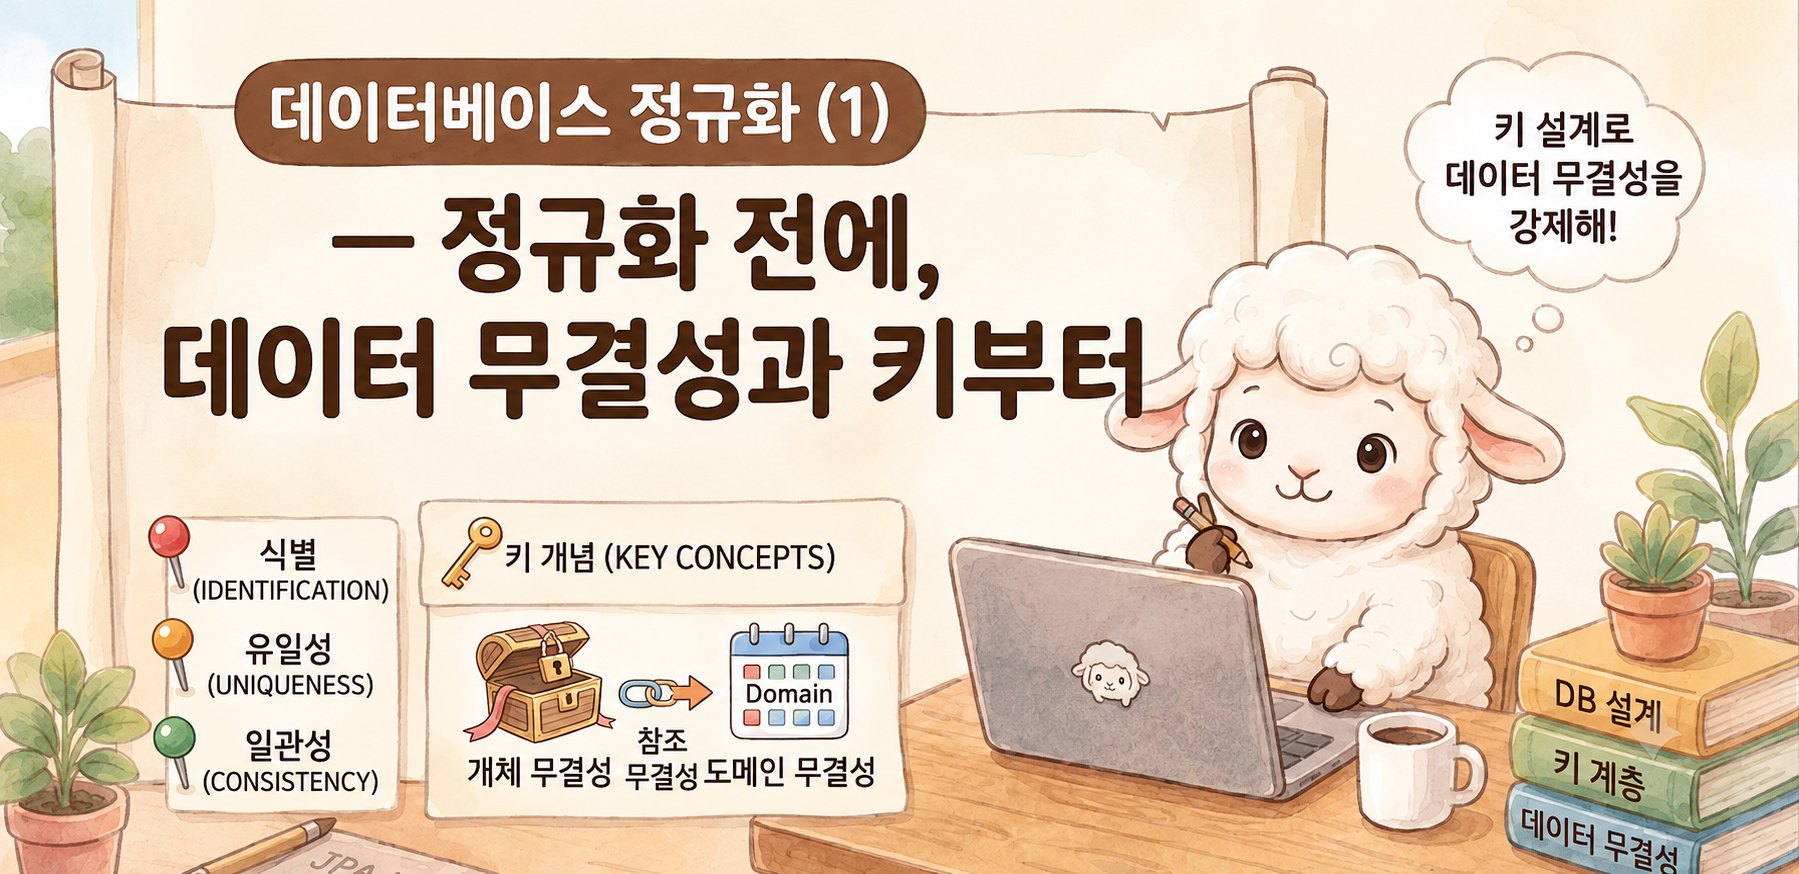
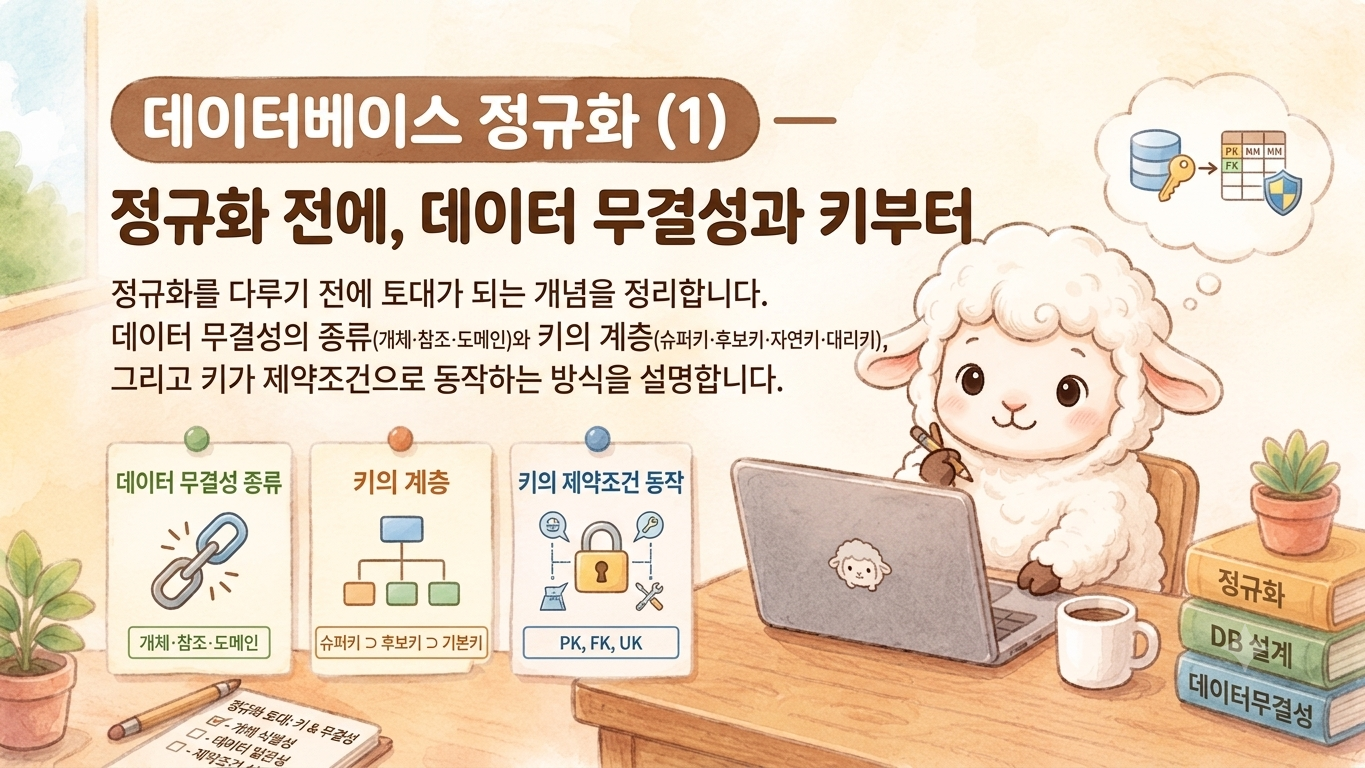
히어로 인포그래픽(1~6편) + 스프링 글 초안 + 파비콘·SEO·OG 보강
- 1~6편 마스코트 히어로 인포그래픽 적용, 히어로 비율 16:9, 각 글 히어로→OG 연결
- 스프링 컨텍스트 캐시 OOM 글 초안(draft) + Before/After 도식 SVG
- 양 파비콘 PNG(16/32/48/180)+apple-touch-icon, 네이버 사이트 인증 메타
- 5·6편 pubDate 갱신, 3편 문구 정리(흥미로운 점은 등 제거)
- docs/hero-image-prompt.md 개선(16:9·텍스트 최소화 규칙)

diff --git a/src/content/blog/spring-test-oom-context-cache.md b/src/content/blog/spring-test-oom-context-cache.md
@@ -1,0 +1,174 @@
+---
+title: 'JPA 테스트가 CI에서 OOM으로 죽은 이유 — Spring 컨텍스트 캐시 키와 H2'
+description: '@DataJpaTest마다 서로 다른 H2 DB 이름을 주면 Spring 컨텍스트 캐시가 무력화되어 CI에서 OutOfMemoryError가 납니다. 원인인 컨텍스트 캐시 키(MergedContextConfiguration)의 동작과 해결 방법을 공식 문서·소스를 근거로 정리합니다.'
+pubDate: 'Jun 24 2026'
+heroImage: '../../assets/blog-placeholder-2.jpg'
+tags: ['Spring', 'JPA', '테스트', 'H2', 'OOM']
+draft: false
+---
+
+리포지토리 테스트가 수백 개인 프로젝트에서, 어느 날부터 CI의 `./gradlew test`가 `OutOfMemoryError`로 실패하기 시작했습니다. 실패하는 테스트는 실행할 때마다 달라져, 특정 테스트의 버그처럼 보이지도 않았습니다. 원인을 따라가 보면 `@DataJpaTest`와 H2 인메모리 DB, 그리고 **Spring 테스트의 컨텍스트 캐시 키**가 맞물려 있었습니다. 이 글은 그 과정을 공식 문서와 소스 코드를 근거로 정리합니다.
+
+> 환경은 Spring Boot 2.7 / Spring Framework 5.3 기준입니다. 컨텍스트 캐시 메커니즘 자체는 이후 버전에서도 같습니다.
+
+## 원인 — 테스트마다 다른 H2 DB 이름
+
+먼저 OOM이 난 스택을 봤습니다. 터지는 위치가 테스트의 쿼리나 데이터가 아니라, **새 Spring 컨텍스트를 빌드하며 classpath를 스캔하는 도중**이었습니다.
+
+```text
+java.lang.OutOfMemoryError
+  at DefaultCacheAwareContextLoaderDelegate ...
+  at ClassPathScanningCandidateComponentProvider ...
+```
+
+스택에 찍힌 두 클래스가 핵심 단서입니다.
+
+- `DefaultCacheAwareContextLoaderDelegate` — Spring 테스트가 **캐시를 거쳐 ApplicationContext를 로드**하는 부분입니다.
+- `ClassPathScanningCandidateComponentProvider` — 컨텍스트를 만들 때 **지정한 패키지의 classpath를 훑어 빈으로 등록할 후보 클래스를 찾아내는** 스캐너입니다. 공식 Javadoc은 이 클래스를 "기준 패키지로부터 후보 컴포넌트를 제공하며, 인덱스가 있으면 인덱스를 쓰고 없으면 classpath를 스캔한다"고 설명합니다. `@ComponentScan`이 "어디를 스캔할지"를 정하면, 실제 스캔을 수행하는 일꾼이 이 클래스입니다.
+
+정리하면 OOM은 테스트의 쿼리·검증 코드가 아니라 **새 컨텍스트를 만들며 classpath를 스캔하던 도중**에 났습니다. 곧 테스트가 컨텍스트를 너무 많이 만들고 있다는 신호였고, 테스트 설정에서 원인이 드러났습니다. 리포지토리 테스트들이 각각 다음과 같은 형태였습니다.
+
+```kotlin
+@DataJpaTest
+@TestPropertySource(properties = [
+    "spring.datasource.url=jdbc:h2:mem:orderTestDb;...",   // 테스트마다 고유한 이름
+    "spring.jpa.hibernate.ddl-auto=create-drop",
+])
+class OrderRepositoryTest
+```
+
+테스트마다 `jdbc:h2:mem:` 뒤의 DB 이름을 다르게 줬습니다. 의도는 "테스트 간 DB를 격리하자"였습니다. 그런데 이 인라인 property가 **Spring 컨텍스트 캐시의 키를 테스트마다 다르게 만들어**, 컨텍스트가 전혀 재사용되지 않았습니다.
+
+## Spring 컨텍스트 캐시 키란
+
+Spring 테스트는 무거운 `ApplicationContext`를 테스트마다 새로 만들지 않으려고 캐시에 담아 재사용합니다. 이때 키는 단순한 문자열이 아니라 **`MergedContextConfiguration` 객체**입니다. 테스트 클래스의 모든 컨텍스트 설정을 병합한 것으로, 두 테스트의 이 객체가 `equals()`로 같으면 컨텍스트를 공유하고, 하나라도 다르면 별도 컨텍스트를 만듭니다.
+
+키에 포함되는 주요 구성요소는 다음과 같습니다.
+
+| 구성요소 | 출처 |
+|---|---|
+| 설정 클래스/XML, ContextLoader | `@ContextConfiguration`, `@SpringBootConfiguration` |
+| 활성 프로파일 | `@ActiveProfiles` |
+| `@TestPropertySource` 파일 경로 | `locations` |
+| **`@TestPropertySource` 인라인 property** | `properties` ← 이번 원인 |
+| ContextCustomizer 집합 | `@MockBean`, `@DynamicPropertySource` 등 |
+
+인라인 property가 **한 글자만 달라도 다른 키 = 다른 컨텍스트**입니다. 이는 추측이 아니라 소스에 그대로 드러나 있습니다. `MergedContextConfiguration`의 `equals()`와 `hashCode()`가 인라인 property 배열을 직접 비교하고 해시합니다.
+
+```java
+// MergedContextConfiguration.equals()
+if (!Arrays.equals(this.propertySourceProperties, otherConfig.propertySourceProperties)) {
+    return false;   // 인라인 property가 다르면 다른 키
+}
+
+// MergedContextConfiguration.hashCode()
+result = 31 * result + Arrays.hashCode(this.propertySourceProperties);
+```
+
+`@TestPropertySource(properties = ["spring.datasource.url=...고유..."])`의 배열이 여기 들어가므로, 테스트마다 H2 이름이 다르면 키가 전부 달라집니다.
+
+## 왜 OOM이 나는가
+
+원인을 잡은 뒤, 정말 그래서 OOM이 나는지 재현하며 GC 로그를 찍어 확인했습니다. 컨텍스트 캐시 구현은 `org.springframework.test.context.cache.ContextCache`이고, 세 가지 성질이 겹쳐 OOM을 만듭니다.
+
+- **재사용 0%**: 키가 테스트마다 다르므로 조회는 매번 캐시 미스가 되고, 그때마다 새 컨텍스트를 빌드합니다.
+- **강한 참조로 동시 상주**: 캐시는 기본 `maxSize=32`까지 컨텍스트를 강한 참조로 보관합니다. JPA 컨텍스트 하나에는 전체 엔티티 메타모델, H2, 커넥션 풀이 들어 있어 무겁습니다. 이런 컨텍스트가 32개까지 동시에 살아 있게 됩니다.
+- **단일 fork CI**: 한 JVM에서 수백 개의 테스트가 도는 동안 컨텍스트가 한도까지 누적됩니다.
+
+이 양상은 GC 로그에 그대로 드러났습니다. 아래는 실제 로그에서 핵심 GC 라인만 발췌한 것입니다. 초반에는 Young GC가 힙을 회수하지만 회수 후 사용량이 계속 올라가고, 후반에는 Full GC를 돌려도 사용량이 거의 그대로입니다.
+
+```text
+[초반] 153M->38M(3072M)  …  421M->206M(3072M)   ← 회수 후가 계속 상승
+[후반] Pause Full 3068M->3068M(3072M)            ← 풀 GC가 돌아도 안 내려감
+```
+
+> **Young GC와 Full GC**
+>
+> JVM 힙은 객체를 Young(젊은) 영역과 Old(늙은) 영역으로 나눠 관리합니다. **Young GC**는 Young 영역만 청소해 빠르고 자주 일어나고, **Full GC**는 Old를 포함한 힙 전체를 청소해 느립니다. 위 로그의 `Pause Young`이 Young GC, `Pause Full`이 Full GC입니다.
+
+Full GC를 돌려도 사용량이 내려가지 않는다는 것은, 힙에 있는 객체가 전부 살아 있어 회수할 수 없다는 뜻입니다. 메모리 누수가 아니라 **강한 참조로 잡힌 컨텍스트들이 힙을 가득 채운** 상태입니다. 그 상태에서 다음 컨텍스트를 빌드하며 classpath를 스캔하는 순간 `OutOfMemoryError`가 납니다.
+
+## 왜 느리기도 했나 — 속도
+
+테스트마다 고유한 H2 이름은 단순한 캐시 미스가 아니라, **그때마다 컨텍스트·스키마를 통째로 새로 만든다**는 뜻입니다. 테스트 클래스 하나가 추가될 때마다 다음이 반복됩니다.
+
+- classpath 스캔과 빈 생성
+- 전체 엔티티에 대한 Hibernate 메타모델 빌드
+- 빈 H2에 전체 테이블을 만드는 스키마 DDL
+
+수백 번 반복되던 이 작업이, 컨텍스트를 공유하면 몇 번으로 줄어듭니다. 그래서 캐시 키를 통일하면 OOM이 사라질 뿐 아니라 테스트가 크게 빨라집니다.
+
+## H2 인메모리의 추가 함정
+
+여기서 한 가지 더 주의할 점이 있습니다. **H2 인메모리 DB는 같은 JVM 안에서 이름으로 식별**됩니다. `jdbc:h2:mem:sharedDb`는 이름이 같으면 물리적으로 같은 DB입니다.
+
+그래서 서로 다른 컨텍스트가 같은 DB 이름을 공유하면, 각자 `create-drop`으로 스키마를 만들고 지우다가 한 컨텍스트가 종료될 때 다른 컨텍스트의 테이블까지 drop해 충돌할 수 있습니다. 정리하면 규칙은 이렇습니다.
+
+- **같은 컨텍스트를 공유하는 테스트** → 같은 DB 이름 (캐시 재사용)
+- **컨텍스트 설정이 다른 테스트** → 다른 DB 이름 (스키마 충돌 방지)
+
+즉 "단일 컨텍스트 = 단일 DB 이름"입니다.
+
+## 해결 — 캐시 키를 같게 만든다
+
+핵심은 간단합니다. `@DataJpaTest`는 메서드마다 트랜잭션을 롤백하므로 **테스트별 고유 DB가 애초에 필요하지 않습니다.** 격리는 롤백이 이미 보장합니다. 따라서 고유 H2 이름을 없애고 설정을 하나로 고정하면 됩니다.
+
+이를 위해 공통 설정을 묶은 **합성(메타) 애너테이션**을 만듭니다. Spring TestContext는 `@DataJpaTest`나 `@TestPropertySource`가 메타 애너테이션으로 올라가 있어도 병합해서 인식합니다.
+
+```kotlin
+@Target(AnnotationTarget.CLASS)
+@Retention(AnnotationRetention.RUNTIME)
+@DataJpaTest
+@TestPropertySource(properties = [
+    "spring.datasource.url=jdbc:h2:mem:sharedRepoDb;DB_CLOSE_DELAY=-1",  // 고정된 단일 이름
+    "spring.jpa.hibernate.ddl-auto=create-drop",
+])
+annotation class RepositoryJpaTest
+```
+
+이제 각 테스트는 고유 설정 대신 이 애너테이션 하나만 붙입니다.
+
+```kotlin
+@RepositoryJpaTest
+class OrderRepositoryTest
+
+@RepositoryJpaTest
+class MemberRepositoryTest
+```
+
+두 테스트의 property 블록이 **글자 단위로 동일**하므로 `MergedContextConfiguration`이 같아지고, 컨텍스트 하나를 공유합니다. 수백 개로 쪼개졌던 컨텍스트가 설정 그룹 수만큼으로 줄어듭니다.
+
+![테스트마다 다른 H2 이름을 주면 캐시 키가 갈려 컨텍스트가 여러 개 쌓여 힙이 가득 차 OOM이 나는 반면, 공통 애너테이션으로 단일 H2 이름을 쓰면 키가 같아져 컨텍스트 하나를 재사용함을 비교한 도식](../../assets/spring-test-context-cache.svg)
+
+한 가지 주의할 점은, **컨텍스트 설정을 바꾸는 요소가 있으면 그룹을 나눠야** 한다는 것입니다. 예를 들어 `@EnableJpaAuditing` 적용 여부, `@MockBean`, `@ActiveProfiles`, `@Import` 등은 키를 바꾸므로, 그런 테스트는 같은 그룹에 넣을 수 없습니다. 설정 그룹별로 애너테이션을 따로 두고, 각 그룹에 다른 H2 이름을 주면 됩니다.
+
+### 즉시 완화책
+
+근본 수정 전에 CI를 빠르게 안정화해야 한다면, 동시 상주 컨텍스트 수를 제한하는 방법이 있습니다.
+
+```text
+-Dspring.test.context.cache.maxSize=8
+```
+
+기본 32를 줄이면 한 번에 살아 있는 컨텍스트가 적어져 힙 압력이 내려갑니다. 동작은 그대로지만, 그만큼 컨텍스트 재생성이 늘어 약간 느려집니다. 근본 원인(키가 쪼개진 것)을 고치는 것은 아니므로 임시방편입니다.
+
+## 정리
+
+원인을 한 줄로 이으면 이렇습니다.
+
+> 테스트마다 다른 H2 url → 캐시 키 분열 → 컨텍스트 재사용 0% → 무거운 컨텍스트 누적 → 힙 고갈 → (다음 컨텍스트의) classpath 스캔 중 OOM
+
+- CI 테스트 OOM이 **컨텍스트 빌드 단계(classpath 스캔)** 에서 났다면, 테스트 로직이 아니라 **컨텍스트가 너무 많이 만들어지는 것**을 의심한다
+- Spring 테스트의 컨텍스트 캐시 키는 `MergedContextConfiguration`이고, 여기에 **`@TestPropertySource` 인라인 property가 포함**된다
+- `@DataJpaTest`마다 다른 H2 DB 이름을 주면 키가 전부 달라져 **컨텍스트 재사용이 0%가 되고**, 무거운 컨텍스트가 캐시에 쌓여 OOM과 속도 저하를 함께 부른다
+- `@DataJpaTest`는 롤백으로 격리되므로 고유 DB가 불필요하다. **공통 메타 애너테이션으로 설정을 고정**해 키를 통일하면 컨텍스트를 공유한다
+- H2 인메모리는 이름으로 식별되므로 **"단일 컨텍스트 = 단일 DB 이름"** 규칙을 지킨다
+
+## 참고 문헌
+
+- [Spring Framework Reference — Context Caching](https://docs.spring.io/spring-framework/docs/5.3.x/reference/html/testing.html#testcontext-ctx-management-caching) — 캐시 키 구성 파라미터 목록(`propertySourceProperties` 포함).
+- [Spring Framework Reference — @TestPropertySource](https://docs.spring.io/spring-framework/docs/5.3.x/reference/html/testing.html#testcontext-ctx-management-property-sources) — 인라인 property 주입.
+- [Javadoc — `MergedContextConfiguration`](https://docs.spring.io/spring-framework/docs/5.3.31/javadoc-api/org/springframework/test/context/MergedContextConfiguration.html) — 캐시 키 객체. `equals()`/`hashCode()`가 `propertySourceProperties`를 비교.
+- [Javadoc — `ContextCache`](https://docs.spring.io/spring-framework/docs/5.3.31/javadoc-api/org/springframework/test/context/cache/ContextCache.html) — 기본 `maxSize` 32, LRU 제거.
+- [Javadoc — `ClassPathScanningCandidateComponentProvider`](https://docs.spring.io/spring-framework/docs/5.3.31/javadoc-api/org/springframework/context/annotation/ClassPathScanningCandidateComponentProvider.html) — "기준 패키지로부터 후보 컴포넌트를 제공하며, 인덱스가 없으면 classpath를 스캔한다." OOM 스택에 나타난 스캐너.
+- [Spring Framework Reference — Classpath Scanning and Managed Components](https://docs.spring.io/spring-framework/docs/5.3.x/reference/html/core.html#beans-classpath-scanning) — `@ComponentScan`이 classpath를 스캔해 빈 정의를 자동 등록하는 방식.

diff --git a/docs/hero-image-prompt.md b/docs/hero-image-prompt.md
@@ -1,79 +1,83 @@
 # 히어로/OG 이미지 생성 프롬프트 (그나저나 메모)
 
-블로그 히어로 이미지를 **일관된 수채화 마스코트 톤**으로, **OG 표준 비율 1.91:1 (1200×630)** 에 맞춰 생성하기 위한 프롬프트 템플릿.
+블로그 히어로 이미지를 **일관된 수채화 양 마스코트 톤**으로, **16:9 (예: 1365×768 또는 1200×675)** 에 맞춰 생성하기 위한 프롬프트.
 
-- 이미지 생성 모델(Gemini / ChatGPT 등)에 붙여 넣고, `«...»` 부분만 글마다 교체한다.
-- 히어로는 `1200×630`(또는 2배 `2400×1260`)로 만들면 히어로·OG 양쪽에 크롭 없이 들어간다.
+- 히어로 레이아웃은 16:9(1200×675)로 렌더되며, OG 이미지로도 그대로 쓰인다. 16:9면 크롭 없이 들어간다.
+- **일관성의 핵심은 "기존 히어로 이미지 1~2장을 참고 이미지로 함께 첨부"** 하는 것. 그림체·색감·폰트·구도가 자동으로 맞춰진다.
+- 이미지 생성 모델(Gemini / ChatGPT 등)에 프롬프트 + 참고 이미지를 함께 주고, `«...»`만 글마다 교체한다.
 - **금지어**: 책등·문구에 `마스터`, `정복`, `완벽`, `전문가` 등 도달·결과 보장 표현 금지(게시 콘텐츠 과장 금지 규칙).
 
 ---
 
-## 공통 프롬프트 (스타일·레이아웃 고정)
+## 공통 프롬프트 (복붙 + 참고 이미지 첨부)
 
 ```
-A warm, soft watercolor illustration, children's-book style, cozy and cute.
-ASPECT RATIO: wide landscape banner, 1.91:1 (1200 x 630 px). Keep all text and the
-sheep within a safe margin so nothing is cut at the edges.
+첨부한 [참고 이미지들]과 완전히 같은 그림체·색감·레이아웃·폰트(크기 포함)·양 마스코트·구도로
+새 히어로 이미지를 만들어 주세요. 비율 16:9.
 
-SCENE (keep identical every time for consistency):
-- A fluffy white cartoon sheep sitting at a light wooden desk on the RIGHT, holding a
-  pencil, gentle smile, a gray laptop with a tiny sheep sticker, a coffee mug, and a
-  stack of books with Korean spine labels on the far right.
-- LEFT/back: a bright window with greenery, potted plants, a folded "JPA" newspaper.
-- Cream / warm-beige background. Soft brown outlines. Rounded bold Korean lettering.
-- TOP: a parchment scroll banner. Brown rounded tag with the series label, big bold
-  title below, small leaf sprigs beside the subtitle.
-- A thought/speech bubble near the sheep's head (top-right).
+단, 글자를 확 줄이고 더 크고 시원하게 가주세요. 규칙:
+- 제목: 한 줄 (시리즈 태그 + 제목), 기존과 같은 크기.
+- 부제: 딱 한 줄, 짧게. (3줄 설명 금지)
+- 가운데 개념 패널: 정확히 3개. 각 패널은 "큰 아이콘 + 2~4단어 라벨"만.
+  → 패널 안에 표·문장·여러 줄 설명을 넣지 마세요.
+- 말풍선: 작은 아이콘이나 간단한 미니 도식 하나만, 글자 최소.
+- 책등: 2~3개, 각 1~2단어.
+- 쪽지/메모의 불릿 목록 같은 잡다한 텍스트는 빼주세요.
+- 여백을 넉넉히. 작은 글씨로 빽빽하게 채우지 마세요.
 
-TEXT TO RENDER (Korean, exact):
-- Series tag:  데이터베이스 정규화 (N)
-- Title:       «제목»
-- Subtitle:    «부제»
-- Panels (3 cards on the parchment):  «패널1» / «패널2» / «패널3»
-- Bottom "분해" section:  Before «...»  →  After «...»  + green check "중복 감소"
-- Speech bubble:  «말풍선»
-- Book spines (right): «책등1» / «책등2» / «책등3»
-
-Clean, uncluttered, friendly. No watermark.
+[이번 글 내용 — 아래만 반영하고 본문 세부는 넣지 마세요]
+- 시리즈 태그: «데이터베이스 정규화 (N)»
+- 제목: «...»
+- 부제(한 줄): «...»
+- 개념 패널 3개(아이콘 + 짧은 라벨): «라벨1» / «라벨2» / «라벨3»
+- 말풍선(한 단어 또는 아이콘): «...»
+- 책등: «...» / «...»
 ```
 
-> 모델이 1.91:1을 정확히 안 지키면, 나온 그림을 1200×630으로 크롭한다.
-> (중요 요소는 가운데 안전영역에 두도록 위 프롬프트에 명시돼 있음)
+### 덜 빽빽하게 만드는 3대 포인트
+1. **패널 안에 표·문장 금지 → 아이콘 + 2~4단어만** (미니표·타임라인이 글자 밀도의 주범)
+2. **부제 한 줄** (기존 3줄 설명을 한 줄로)
+3. **여백 넉넉, 빽빽 금지** (폰트 크기는 크게 유지)
+
+> 모델이 16:9를 정확히 안 지키면, 나온 그림을 16:9로 크롭한다(중요 요소는 가운데에 두도록 프롬프트에 명시).
 
 ---
 
-## 편별 채움값
+## 편별 채움값 (라벨은 이만큼 짧게)
 
 ### 5편 — 제3정규형 (3NF)
 ```
-- Series tag: 데이터베이스 정규화 (5)
-- Title: 제3정규형 (3NF)
-- Subtitle: 이행적 함수적 종속 제거
-- Panels: [핵심 개념] 이행적 함수적 종속 (키 → A → B) / [예시] 직원ID → 부서ID → 부서명 / [3NF 핵심] 비주요 속성은 키에만 직접 의존
-- Bottom: Before 직원(직원ID, 직원명, 부서ID, 부서명, 부서장) → After 직원(직원ID, 직원명, 부서ID) + 부서(부서ID, 부서명, 부서장) + 중복 감소
-- 말풍선: 거쳐서 의존하면 분리!
-- 책등: 3NF / 이행적 종속 / 함수적 종속
+- 태그: 데이터베이스 정규화 (5)
+- 제목: 제3정규형(3NF)
+- 부제: 이행적 함수적 종속 제거
+- 패널 3개: 이행적 종속 / 분해 과정 / 키에만 의존
+- 말풍선: 거쳐서 의존 → 분리
+- 책등: 3NF / DB 설계
 ```
 
 ### 6편 — 보이스-코드 정규형 (BCNF)
 ```
-- Series tag: 데이터베이스 정규화 (6)
-- Title: 보이스-코드 정규형 (BCNF)
-- Subtitle: 모든 결정자를 후보키로
-- Panels: [핵심 개념] 결정자 · 후보키 / [예시] 교수 → 과목 (결정자가 후보키 아님) / [BCNF 핵심] 모든 비자명 종속의 결정자 = 슈퍼키
-- Bottom: Before 수강(학생, 과목, 교수) → After 수강(학생, 교수) + 교수과목(교수, 과목) + 중복 감소
-- 말풍선: 결정자가 키가 아니면 분리!
-- 책등: BCNF / 결정자 / 후보키
+- 태그: 데이터베이스 정규화 (6)
+- 제목: 보이스-코드 정규형(BCNF)
+- 부제: 모든 결정자를 후보키로
+- 패널 3개: 결정자=후보키 / 후보키 겹침 / 중복 제거
+- 말풍선: 결정자가 키 아니면 분리
+- 책등: BCNF / DB 설계
 ```
 
-### (참고) 작성된 편
-- 1편 데이터 무결성과 키 / 2편 이상현상 / 3편 1NF / 4편 2NF — 히어로 이미지 적용됨.
-- 7편 자연키와 대리키(현재 draft) / 8편 제4·제5정규형 / 9편 정규화 절차와 역정규화 — 추후 같은 형식으로 채워 사용.
+### (참고) 시리즈 현황
+- 1~6편: 히어로 이미지 적용됨 (단, 지금 버전은 텍스트가 다소 많아 위 규칙으로 재생성 권장).
+- 7편 자연키와 대리키(draft) / 8편 제4·제5정규형 / 9편 정규화 절차와 역정규화 — 추후 같은 형식으로.
 
 ---
 
 ## 적용 방법
-1. 위 프롬프트로 1200×630 PNG 생성(필요 시 크롭).
-2. `src/assets/db-normalization-<n>-<slug>.png` 로 저장.
-3. 해당 글 frontmatter `heroImage` 경로 지정(이미 지정돼 있으면 파일만 교체).
-4. `npm run build` 후 `npx wrangler pages deploy dist --project-name gnajournal --commit-dirty=true`.
+1. 위 프롬프트 + 기존 히어로 1~2장으로 **16:9 PNG** 생성(필요 시 16:9로 크롭).
+2. `src/assets/db-normalization-<n>-<slug>.png` 로 저장(기존 파일명 그대로 덮어쓰면 frontmatter 수정 불필요).
+3. 새 글이면 frontmatter `heroImage` 경로 지정.
+4. 빌드·배포:
+   ```bash
+   npm run build
+   npx wrangler pages deploy dist --project-name gnajournal --commit-dirty=true
+   ```
+   (셸 NODE_OPTIONS 프리로드 충돌 시 wrangler 앞에 `env -u NODE_OPTIONS`)

diff --git a/src/content/blog/db-normalization-5-3nf.md b/src/content/blog/db-normalization-5-3nf.md
@@ -1,8 +1,8 @@
 ---
 title: '데이터베이스 정규화 (5) — 제3정규형(3NF): 이행적 함수적 종속 제거'
 description: '제3정규형(3NF)을 다룹니다. 이행적 함수적 종속의 의미, Codd의 1971년 원문 정의, 그리고 키가 아닌 속성을 거쳐 생기는 중복을 제거하는 방법을 예시와 함께 정리합니다.'
-pubDate: 'Jun 16 2026'
-heroImage: '../../assets/blog-placeholder-5.jpg'
+pubDate: 'Jun 25 2026'
+heroImage: '../../assets/db-normalization-5-3nf.png'
 tags: ['데이터베이스', '정규화', 'DB설계', '정규형', '3NF']
 draft: false
 ---

diff --git a/src/content/blog/db-normalization-6-bcnf.md b/src/content/blog/db-normalization-6-bcnf.md
@@ -1,8 +1,8 @@
 ---
 title: '데이터베이스 정규화 (6) — 보이스-코드 정규형(BCNF): 모든 결정자를 후보키로'
 description: '보이스-코드 정규형(BCNF)을 다룹니다. 3NF가 남긴 빈틈, 모든 결정자가 후보키여야 한다는 조건, 후보키가 겹치는 구조에서 생기는 중복을 예시와 함께 정리합니다.'
-pubDate: 'Jun 17 2026'
-heroImage: '../../assets/blog-placeholder-5.jpg'
+pubDate: 'Jun 26 2026'
+heroImage: '../../assets/db-normalization-6-bcnf.png'
 tags: ['데이터베이스', '정규화', 'DB설계', '정규형', 'BCNF']
 draft: false
 ---

diff --git a/src/content/blog/db-normalization-3-1nf.md b/src/content/blog/db-normalization-3-1nf.md
@@ -35,7 +35,7 @@ draft: false
 
 정규화 이론의 출발점은 E.F. Codd가 1970년에 발표한 논문 [「A Relational Model of Data for Large Shared Data Banks」](https://doi.org/10.1145/362384.362685)입니다(*Communications of the ACM* 13권 6호). Codd는 이 논문에서 관계형 데이터 모델 자체를 제안했고, 이는 오늘날 관계형 데이터베이스의 토대가 되었습니다.
 
-흥미로운 점은, 1970년 시점에 존재한 정규형은 1NF 하나뿐이었다는 것입니다. 2NF와 3NF는 이듬해인 1971년 논문 「Further Normalization of the Data Base Relational Model」에서야 등장합니다. 국내 자료 중에는 2NF·3NF도 1970년에 나온 것처럼 적은 글이 있는데, 정확히는 1970년에는 1NF뿐이고 2NF·3NF는 1971년입니다.
+1970년 시점에 존재한 정규형은 1NF 하나뿐이었습니다. 2NF와 3NF는 이듬해인 1971년 논문 「Further Normalization of the Data Base Relational Model」에서야 등장합니다. 국내 자료 중에는 2NF·3NF도 1970년에 나온 것처럼 적은 글이 있는데, 정확히는 1970년에는 1NF뿐이고 2NF·3NF는 1971년입니다.
 
 | 연도 | 정규형 | 도입 | 다루는 종속성 |
 |------|--------|------|----------------|